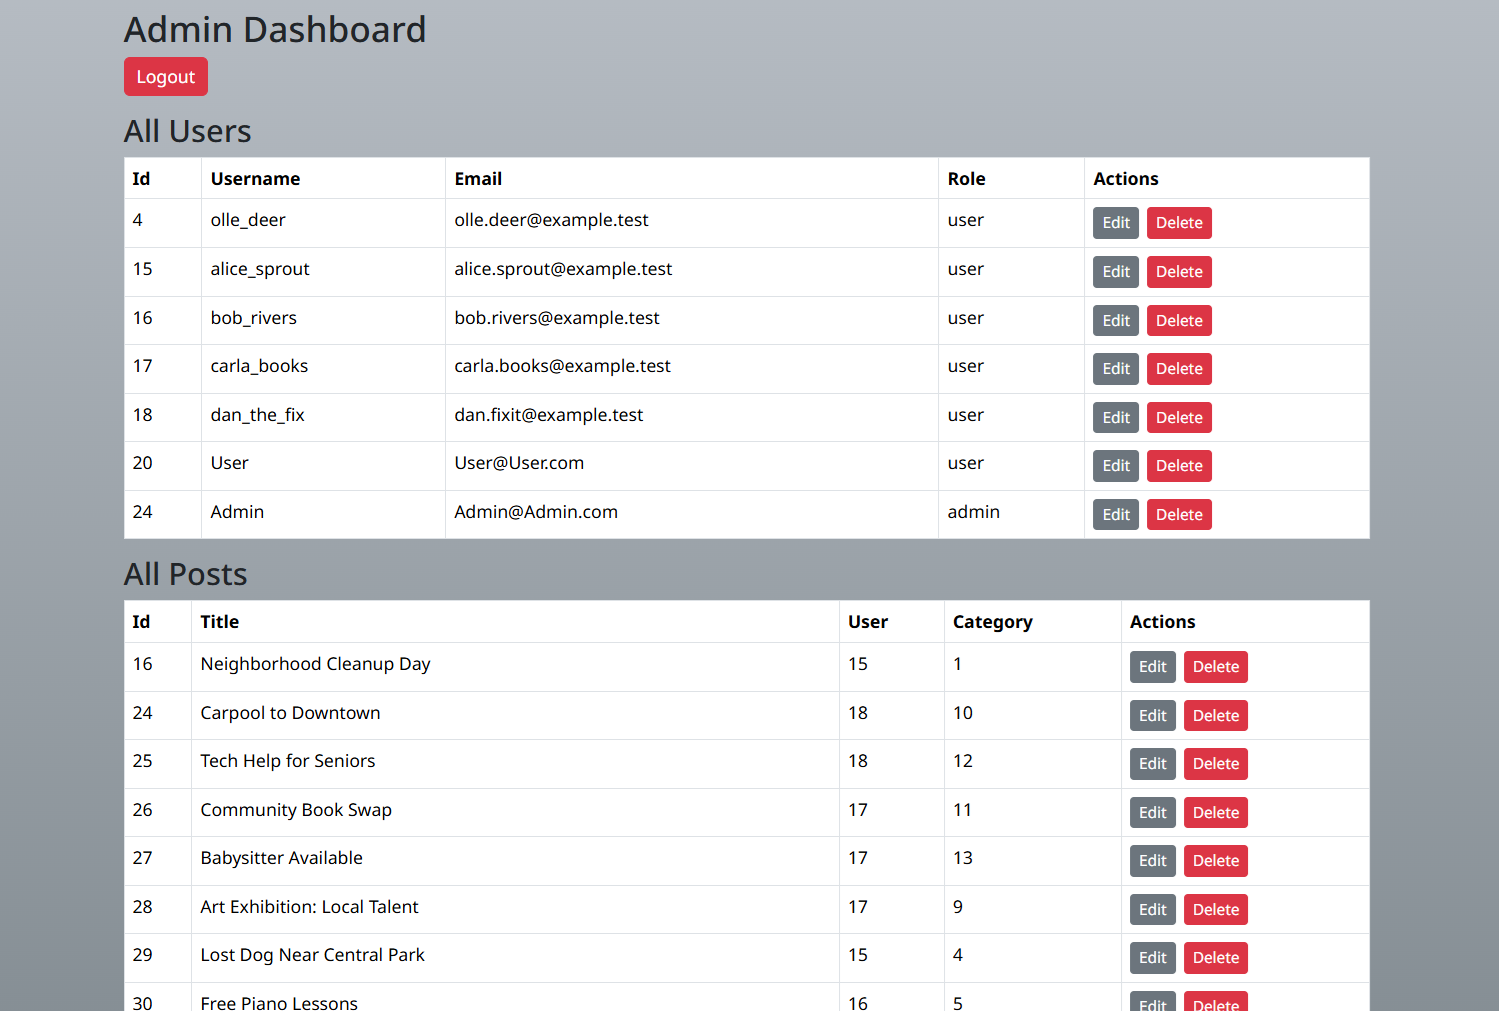
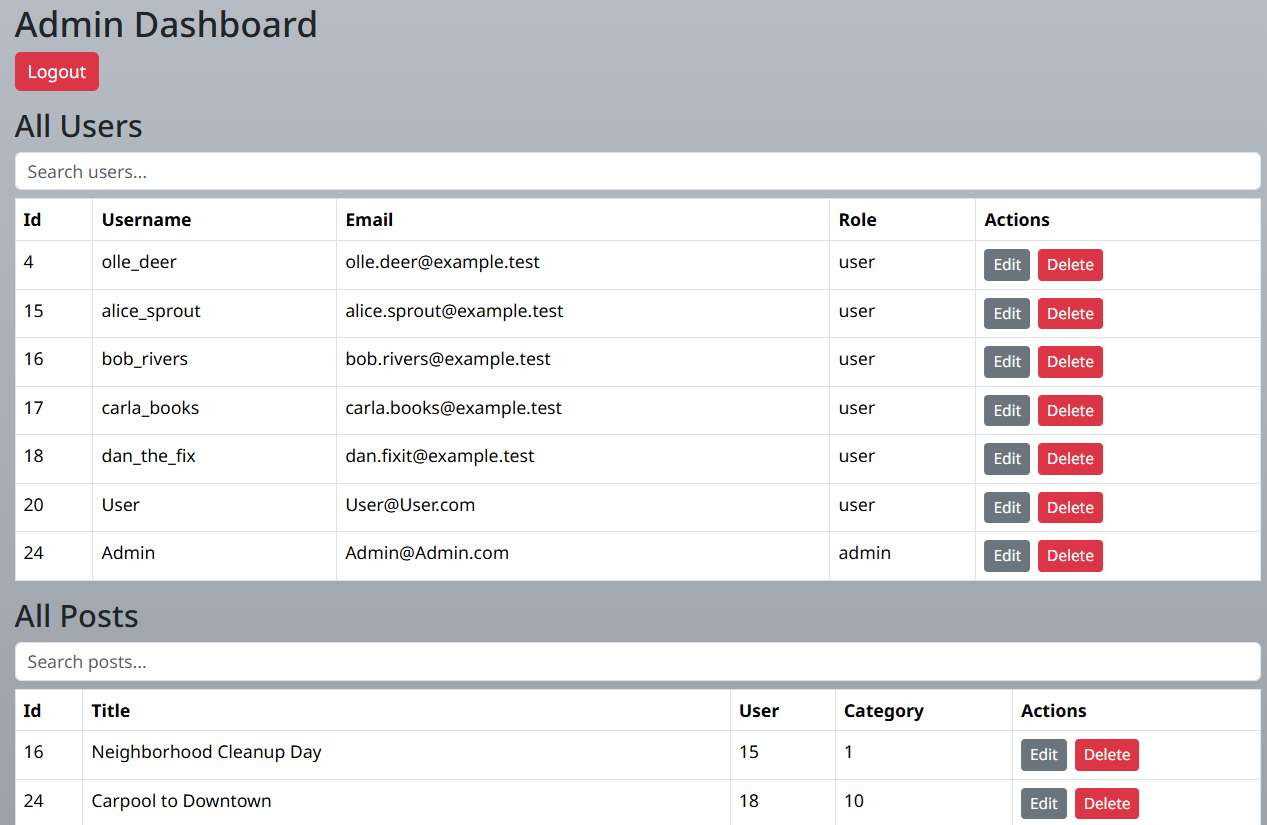
Update README and add new screenshots Remove outdated images

diff --git a/README.md b/README.md
@@ -1,10 +1,8 @@
 # Community Board
 
-Welcome to Community Board! This is a simple, modern web app where you can share posts, browse what others are saying, and join in on discussions. Whether you’re part of a club, a small team, or just want a friendly place to chat, Community Board makes it easy to connect.
+Welcome to Community Board! This is a simple, modern web app where you can share posts, browse what others are saying, and join in on discussions.
 
 Built with React and Bootstrap, it’s fast, clean, and works great on any device. You can create an account, post your thoughts, comment on others, and easily sort posts by title, category, or date to find what interests you.
-
----
 
 ##  Features
 - Clean and responsive layout  
@@ -12,12 +10,6 @@ Built with React and Bootstrap, it’s fast, clean, and works great on any devic
 - User creation  
 - Create and comment on posts
 - Powered by React + Bootstrap 
-
-
-## Screenshots
-![board](public/Board.png)
-![adminDashBoard](public/AdminDashBoard.png)
-![commentSection](public/CommentSection.png)
 
 ## Installation
 
@@ -48,3 +40,20 @@ Built with React and Bootstrap, it’s fast, clean, and works great on any devic
 - Vite
 - C# ASP.NET Core
 - SQLite
+
+## Screenshots
+
+### Front Page
+![frontPage](public/FrontPage.png)
+
+### Admin Dashboard
+![adminDashBoard](public/AdminDashBoard.png)
+
+### Comment Section (Logged In) And Comment Section (Visitor)
+![commentSectionUser](public/CommentSectionUser.png)![commentSectionVisitor](public/CommentSectionVisitor.png)
+
+### Create Post
+![createPost](public/CreatePost.png)
+
+### User Page
+![userPage](public/UserPage.png)
